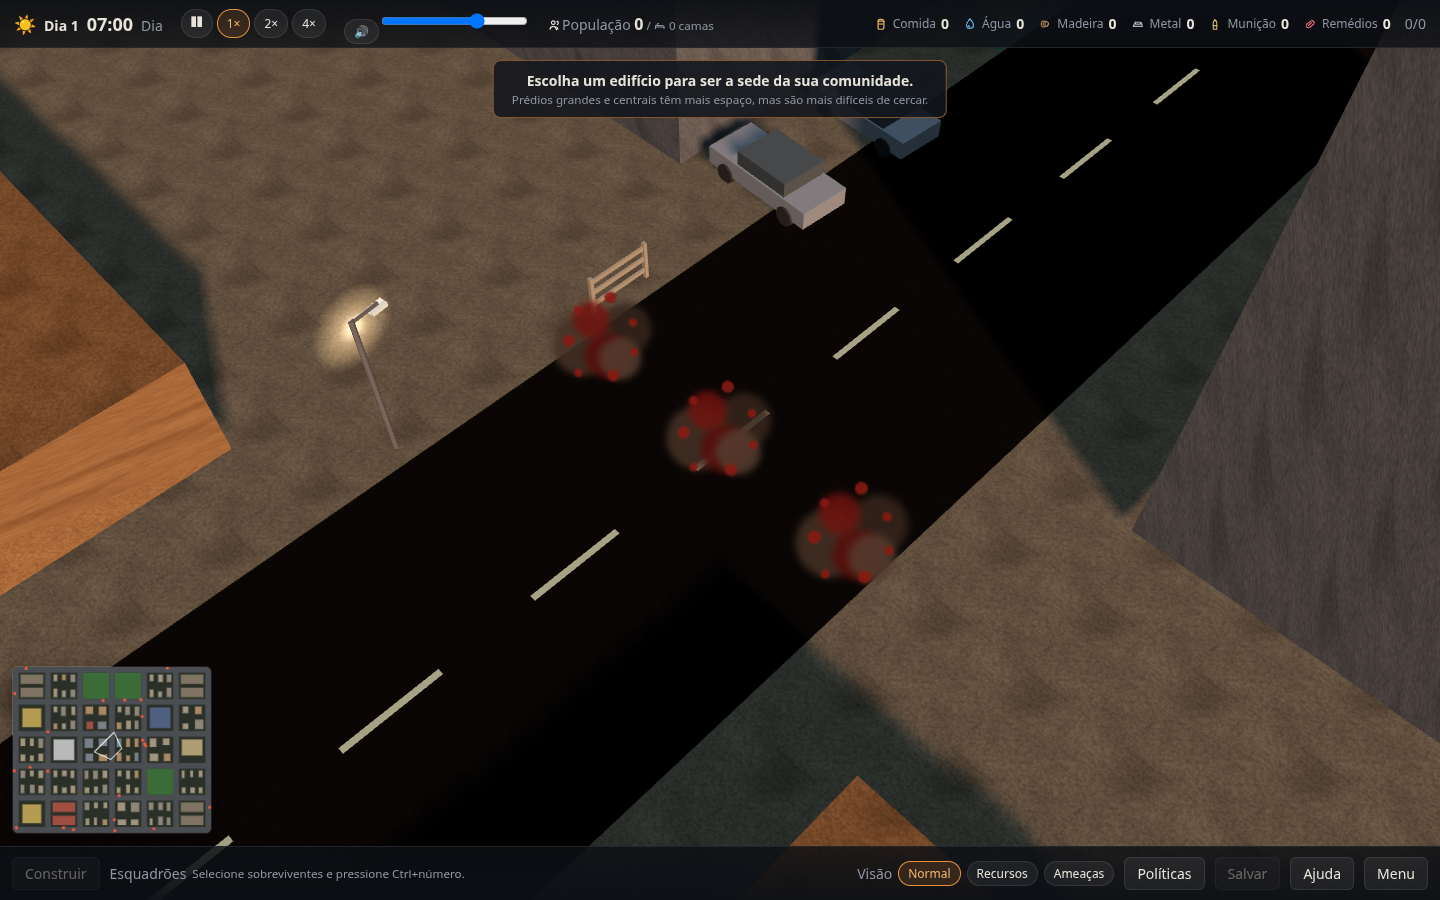
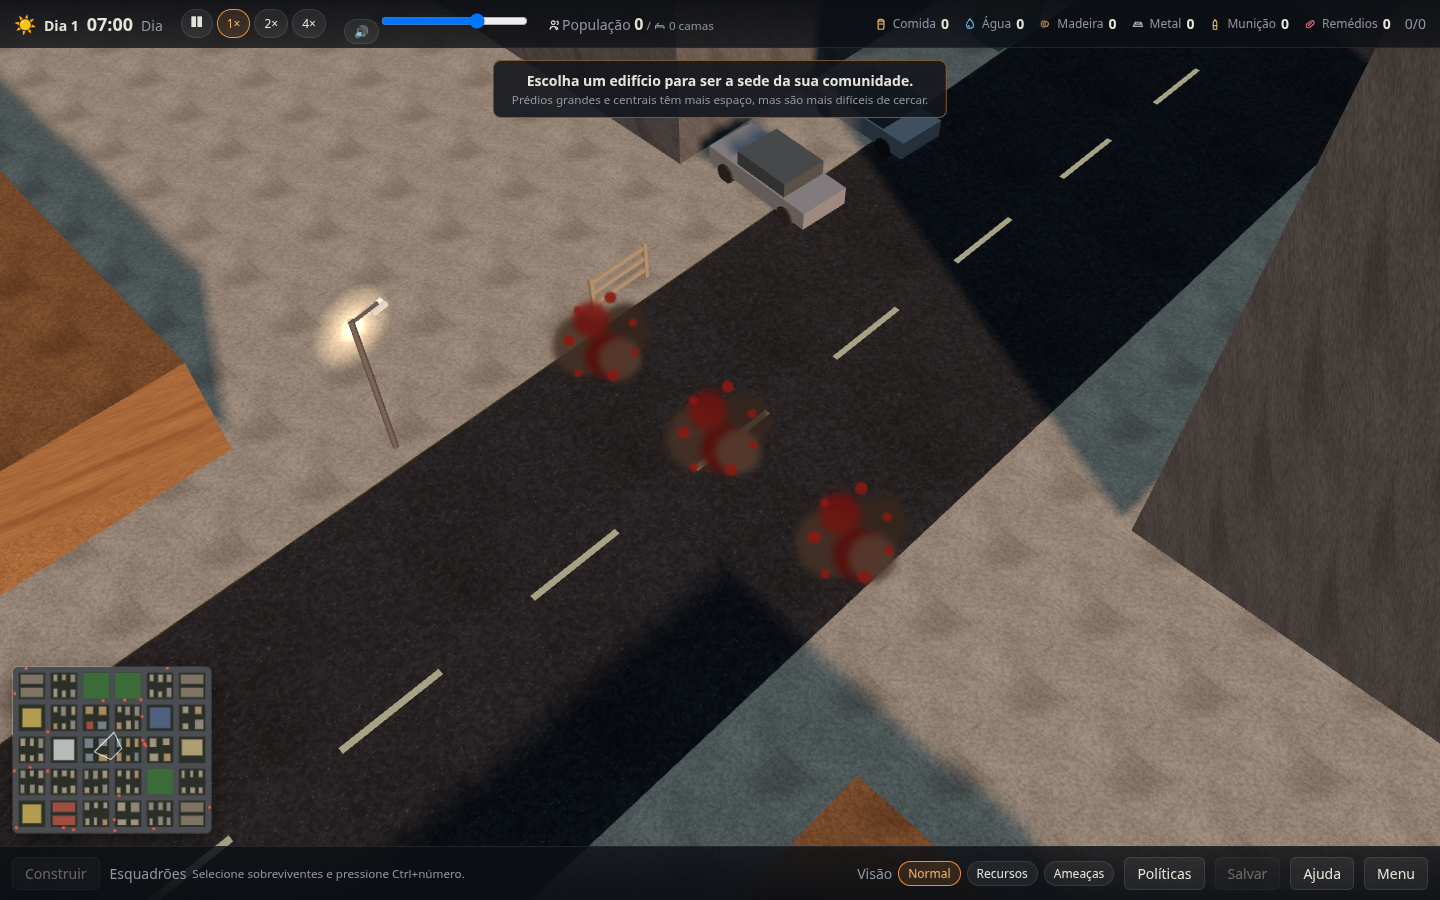
[FIX] renderer: textured ground keeps its colour, so roads stop reading as black
Three multiplies a material's colour by its map, and the ground materials
kept the flat colour they had before the textures arrived. Every surface was
darkened twice: in sRGB the asphalt landed at 10 instead of 52, the bare
ground at 17 instead of 74, the parks at 18 instead of 77 and the sidewalks
at 100 instead of 141.

- cityMeshes.TEXTURED_TINT holds the colour each ground material takes when
  its map arrives: the flat colour divided by the map's mean in linear light,
  so a textured surface averages out to what it was. The parks keep white,
  the grass map being their green already.
- A tint can only darken, so the ground's blue stays at the grass map's own
  (45 against 64) and the bare ground reads slightly more yellow.
- groundTint.test.ts pins the measured map means and checks each tint lands
  within 3 sRGB of its target, so a regenerated map that drifts is noticed.
- Buildings are not touched: they multiply vertex colours by the concrete
  map too, but that look was reviewed when the textures landed.

docs/art/frame.png and docs/art/death.png are recaptured with the fix.

diff --git a/packages/renderer/tests/groundTint.test.ts b/packages/renderer/tests/groundTint.test.ts
@@ -1,0 +1,52 @@
+import * as THREE from "three";
+import { describe, expect, it } from "vitest";
+import { TEXTURED_TINT } from "../src/cityMeshes";
+
+/**
+ * Mean colour of each map in public/art, in sRGB, measured from the PNGs the
+ * manifest pins (asphalt, grass, concrete). If a map is regenerated, measure
+ * again and update the tint: this test is what notices the drift.
+ */
+const MAP_MEAN = {
+  asphalt: [84, 85, 89],
+  grass: [82, 100, 45],
+  concrete: [184, 179, 170],
+} as const;
+
+/** The colour each material had before it wore a map. */
+const FLAT = { roads: 0x34363a, ground: 0x4a4d40, blocks: 0x8d897e };
+const MAP_OF = { roads: "asphalt", ground: "grass", blocks: "concrete" } as const;
+
+function textured(tint: number, mean: readonly number[]): number[] {
+  const t = new THREE.Color(tint); // linear
+  const m = new THREE.Color().setRGB(mean[0] / 255, mean[1] / 255, mean[2] / 255, THREE.SRGBColorSpace);
+  const out = new THREE.Color(t.r * m.r, t.g * m.g, t.b * m.b);
+  return out
+    .getHex(THREE.SRGBColorSpace)
+    .toString(16)
+    .padStart(6, "0")
+    .match(/../g)!
+    .map((h) => parseInt(h, 16));
+}
+
+describe("ground tint under a map", () => {
+  for (const key of ["roads", "ground", "blocks"] as const) {
+    it(`${key} averages out to its flat colour once textured`, () => {
+      const flat = new THREE.Color(FLAT[key]).getHex(THREE.SRGBColorSpace);
+      // A tint multiplies, so it can only darken the map: where the flat colour
+      // is brighter than the map's mean (the ground's blue, over green grass),
+      // the best it can reach is the mean itself, with a white channel.
+      const mean = MAP_MEAN[MAP_OF[key]];
+      const want = [(flat >> 16) & 255, (flat >> 8) & 255, flat & 255].map((c, i) => Math.min(c, mean[i]));
+      const got = textured(TEXTURED_TINT[key], mean);
+      for (let i = 0; i < 3; i++) expect(Math.abs(got[i] - want[i])).toBeLessThanOrEqual(3);
+    });
+  }
+
+  it("the roads are no longer black: the old flat colour under the map came to sRGB ~10", () => {
+    const old = textured(FLAT.roads, MAP_MEAN.asphalt);
+    const now = textured(TEXTURED_TINT.roads, MAP_MEAN.asphalt);
+    expect(Math.max(...old)).toBeLessThan(16);
+    expect(Math.min(...now)).toBeGreaterThan(45);
+  });
+});

diff --git a/packages/renderer/src/GameRenderer.ts b/packages/renderer/src/GameRenderer.ts
@@ -5,7 +5,7 @@ import type { Simulation, EntityId } from "@afterfall/core";
 import { lerp } from "@afterfall/shared";
 import { RtsCamera } from "./camera";
 import { BuildingBatch, outlineOf } from "./buildingBatch";
-import { buildCityGround, type GroundMaterials } from "./cityMeshes";
+import { buildCityGround, TEXTURED_TINT, type GroundMaterials } from "./cityMeshes";
 import { loadArtTextures, type ArtTextures } from "./textures";
 import { loadProps, placeProps, type PropScene } from "./props";
 import { VfxSystem, type FxEvent } from "./vfx";
@@ -249,15 +249,17 @@ export class GameRenderer {
   private applyArt(art: ArtTextures): void {
     const g = this.groundMats;
     if (g) {
-      const set = (mat: THREE.MeshStandardMaterial | null, tex: THREE.Texture | null) => {
+      const set = (key: keyof GroundMaterials, tex: THREE.Texture | null) => {
+        const mat = g[key];
         if (!mat || !tex || mat.map === tex) return;
         mat.map = tex;
+        mat.color.setHex(TEXTURED_TINT[key]);
         mat.needsUpdate = true;
       };
-      set(g.ground, art.grass);
-      set(g.blocks, art.concrete);
-      set(g.roads, art.asphalt);
-      set(g.parks, art.grass);
+      set("ground", art.grass);
+      set("blocks", art.concrete);
+      set("roads", art.asphalt);
+      set("parks", art.grass);
     }
     if (this.buildings) this.buildings.setMap(art.concrete);
     this.vfx?.setAtlas(art.spark_atlas);

diff --git a/packages/renderer/src/cityMeshes.ts b/packages/renderer/src/cityMeshes.ts
@@ -41,6 +41,23 @@ function flatPolygon(poly: { x: number; y: number }[], y: number): THREE.BufferG
   return g;
 }
 
+/**
+ * Colour each ground material takes once its map arrives. Three multiplies the
+ * colour by the map, so keeping the flat colour darkened everything twice: the
+ * asphalt landed at sRGB 10 instead of 52 and the roads read as black holes.
+ * Each tint is the flat colour divided by the map's mean (in linear light), so
+ * a textured surface averages out to the colour it had before. A tint can only
+ * darken, so the ground's blue stays at the grass map's own (45 against 64) and
+ * the bare ground reads a little more yellow; the parks keep white because the
+ * grass map is already the park's green.
+ */
+export const TEXTURED_TINT: Record<keyof GroundMaterials, number> = {
+  roads: 0xa7abae,
+  ground: 0xe9c8ff,
+  blocks: 0xc4c4bf,
+  parks: 0xffffff,
+};
+
 /** Materials the ground is built from, so the art pass can give each a map. */
 export interface GroundMaterials {
   ground: THREE.MeshStandardMaterial;
